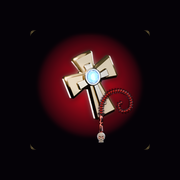
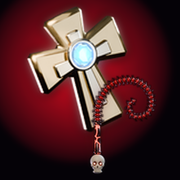
편집기 임시 파일 제외, 진행 중인 작업 중간 저장
Claude-Session: https://claude.ai/code/session_01UBgmRFZQ92zRFpr8aw657S

diff --git a/src/core/game.js b/src/core/game.js
@@ -588,12 +588,12 @@ class Game {
       if (r >= rows) { t.shown = false; continue; }
       const r0 = L.toast(r);
       if (r0.hidden || r0.w < 80) { t.shown = false; r = rows; continue; }
-      // 2줄이면 다음 줄 칸도 쓴다: 두 칸이 겹치는 가로 범위 안에서
+      // 2줄이면 다음 줄 칸도 쓴다: 두 칸이 겹치는 가로 범위 안에서. 줄이 하나뿐인 배치(위쪽 보스 바)면 한 줄로 줄인다
       const r1 = r + 1 < rows ? L.toast(r + 1) : null;
-      const two = !!r1 && !r1.hidden && r1.w >= 80;
-      const lft = two ? Math.max(r0.l, r1.l) : r0.l, rgt = two ? Math.min(r0.r, r1.r) : r0.r;
-      const lines = this.wrapToast(ctx, t, (two ? rgt - lft : r0.w) - 24, size, two ? 2 : 1);
-      if (lines.length > 1 && !two) { t.shown = false; r = rows; continue; }
+      const pair = !!r1 && !r1.hidden && r1.w >= 80;
+      const lft = pair ? Math.max(r0.l, r1.l) : r0.l, rgt = pair ? Math.min(r0.r, r1.r) : r0.r;
+      const lines = this.wrapToast(ctx, t, rgt - lft - 24, size, rows >= 2 ? 2 : 1);
+      if (lines.length > 1 && !pair) { t.shown = false; r = rows; continue; } // 두 줄 칸이 날 때까지 기다린다 (시간도 멈춤)
       const useL = lines.length > 1 ? lft : r0.l, useR = lines.length > 1 ? rgt : r0.r;
       const cx = (useL + useR) / 2;
       const w = Math.min(useR - useL, t._tw + 24);
@@ -624,7 +624,7 @@ class Game {
     if (lines.length > maxLines) {
       const head = lines.slice(0, maxLines - 1);
       const rest = lines.slice(maxLines - 1).join(' ');
-      lines = [...head, ellipsize(ctx, rest, maxW, true)];
+      lines = [...head, ellipsize(ctx, rest, maxW)];
     }
     t._wk = key; t._lines = lines;
     t._tw = Math.max(...lines.map((s) => ctx.measureText(s).width));

diff --git a/tools/assets/make_ui_icons.py b/tools/assets/make_ui_icons.py
@@ -38,8 +38,14 @@ def interior():
     im = Image.open(SRC).convert('RGB')
     w, h = im.size
     inner = im.crop((BORDER, BORDER, w - BORDER, h - BORDER))
+    # 금테는 모서리가 둥글어 네 귀퉁이에 곡선이 남는다 → 귀퉁이를 바탕색으로 지운다 (후광은 귀퉁이까지 닿지 않는다)
+    c = 58
+    for box in ((0, 0, c, c), (inner.width - c, 0, inner.width, c), (0, inner.height - c, c, inner.height), (inner.width - c, inner.height - c, inner.width, inner.height)):
+        inner.paste(BG, box)
     a = np.asarray(inner).astype(np.int32)
-    mask = a.max(axis=2) > 120            # 금빛 십자가·보석·해골·붉은 구슬 (후광은 대부분 이 값 아래)
+    R, G = a[..., 0], a[..., 1]
+    glow = (R > 2.5 * G) & (R < 200)      # 붉은 후광 (그림이 아니라 배경)
+    mask = (a.max(axis=2) > 120) & ~glow  # 금빛 십자가·보석·해골·구슬의 밝은 부분
     ys, xs = np.nonzero(mask)
     if len(xs) == 0:
         raise SystemExit('icon-512.png 에서 그림을 찾지 못했습니다')
